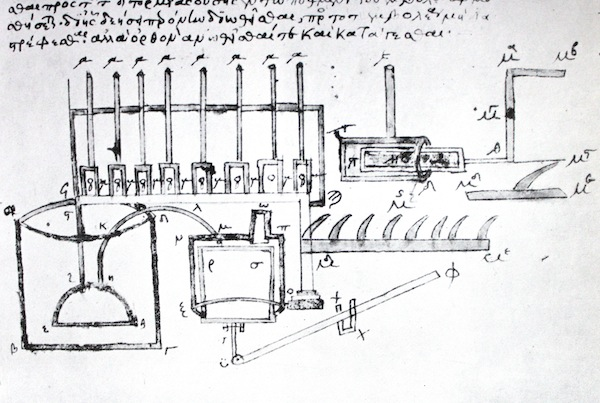
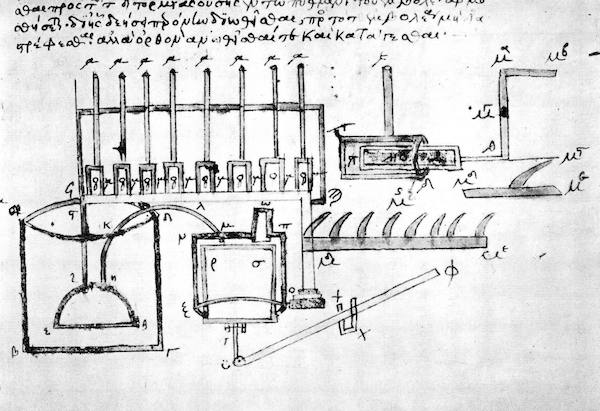
Updated

diff --git a/Reading/2013-10 - The Organ.md b/Reading/2013-10 - The Organ.md
@@ -180,7 +180,7 @@
 
 ### Vitruvius's description
 
-![Vitruvius's Organ](images/Vitruvius's Organ 600.png)
+![Vitruvius's Organ](images/Vitruvius's Organ 600.jpg)
 
 - Architect Vitruvius
 - knows more music then hero
